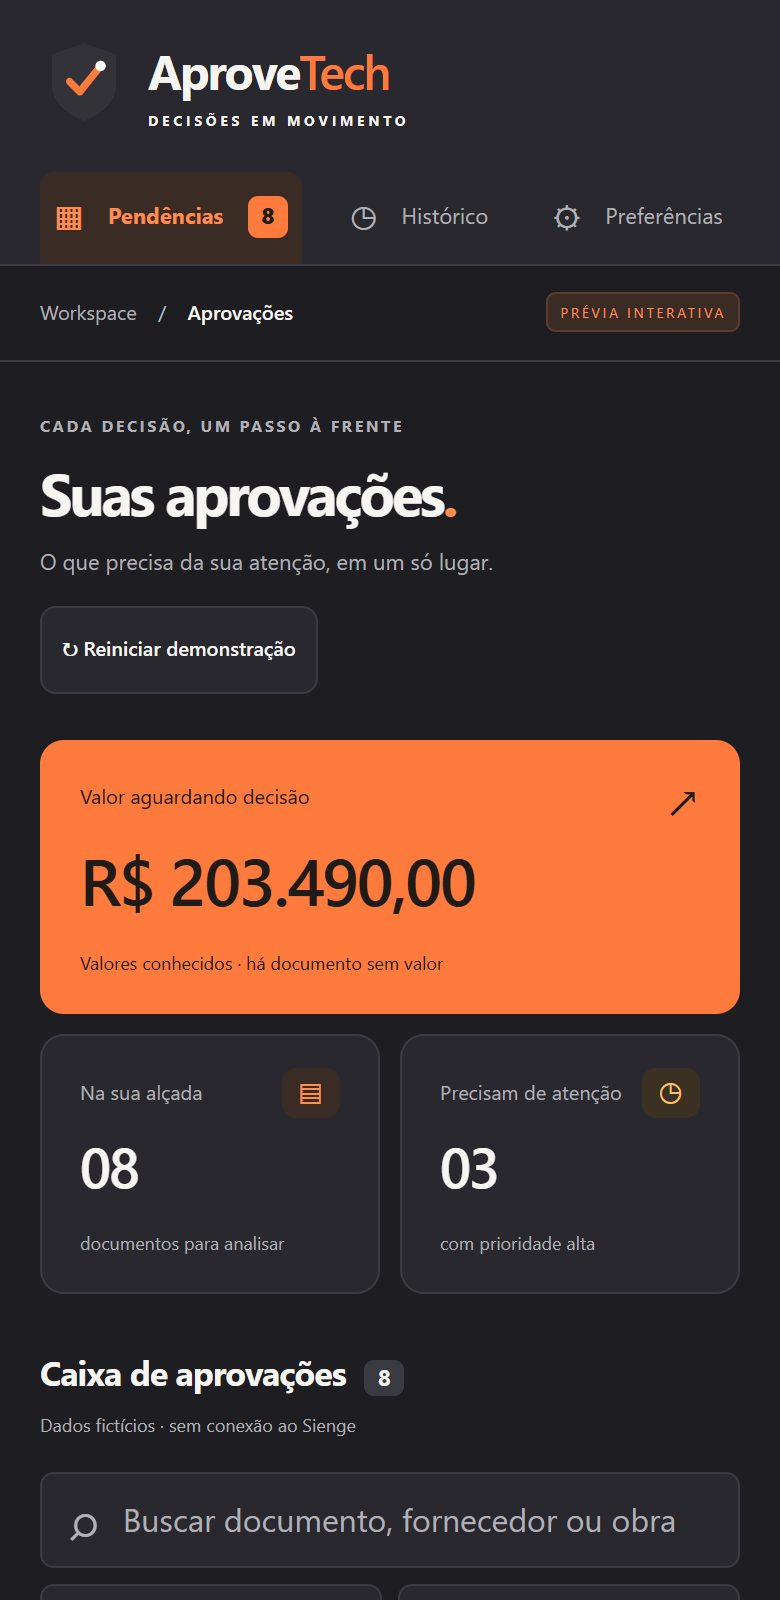
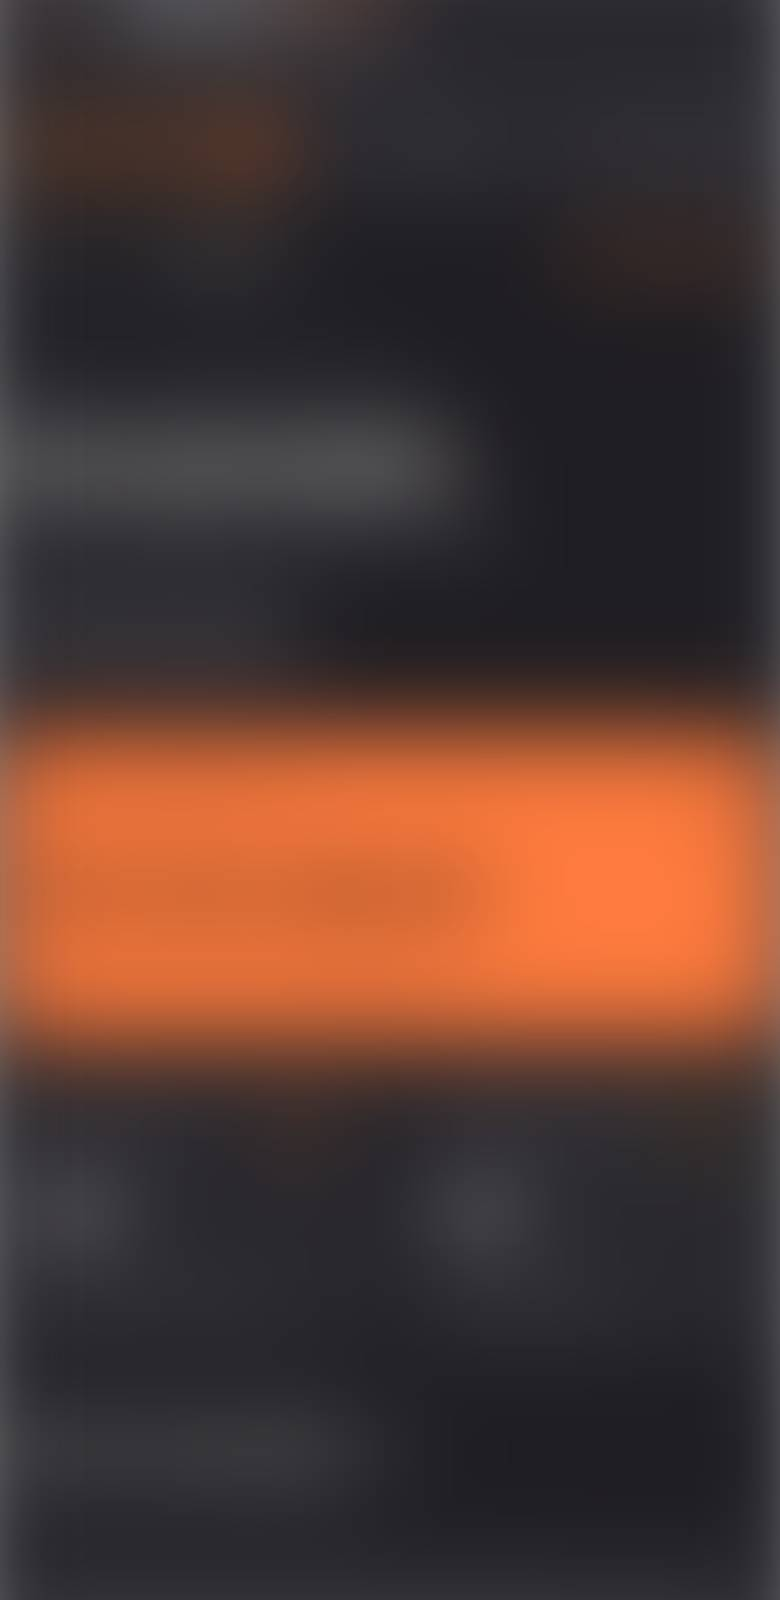
Segredo

diff --git a/src/styles.css b/src/styles.css
@@ -319,10 +319,11 @@ h2.split{font-family:var(--display);font-weight:700;font-size:clamp(40px,5.4vw,7
 @media (hover:none){.bench-card.is-active .vault-peek{opacity:1;transform:none}}
 .vault-peek small{font-size:11px;font-weight:800;letter-spacing:.08em;text-transform:uppercase;color:#8EA3B8}
 .peek-frame{display:block;overflow:hidden;border:1px solid rgba(127,177,236,.3);background:#0A1A2C;box-shadow:0 24px 50px -24px rgba(0,0,0,.8)}
-.peek-frame img{display:block;width:100%;height:100%;object-fit:cover;object-position:top}
-.peek-phone .peek-frame{height:262px;aspect-ratio:390/800;border-radius:22px;border:3px solid #24425F}
-.peek-desktop .peek-frame{width:100%;aspect-ratio:1280/800;border-radius:10px}
-.peek-sketch{width:100%;max-width:300px}
+.peek-frame{opacity:.7;box-shadow:none}
+.peek-frame img{display:block;width:100%;height:100%;object-fit:cover;object-position:top;filter:saturate(.7) brightness(.85)}
+.peek-phone .peek-frame{height:200px;aspect-ratio:390/800;border-radius:20px;border:2px solid #24425F}
+.peek-desktop .peek-frame{width:84%;aspect-ratio:1280/800;border-radius:10px}
+.peek-art{width:100%;max-width:260px;opacity:.7;filter:blur(2.5px)}
 .vault-fill{display:block;height:100%;border-radius:inherit;background:linear-gradient(90deg,var(--cobalto),var(--ceu));transform-origin:0 50%}
 .pipeline-foot{display:flex;flex-wrap:wrap;align-items:center;gap:14px 22px;margin-top:28px}
 .pipeline-foot p{font-size:14.5px;color:var(--nevoa)}

diff --git a/src/components/Pipeline.tsx b/src/components/Pipeline.tsx
@@ -50,7 +50,7 @@ export default function Pipeline() {
             O que vem por aí
           </h2>
           <p className="pipeline-text">
-            A equipe está em desenvolvimento de três projetos para construtora. Um já tem nome. Os outros dois seguem no cadeado, integrados ao <strong>Sienge</strong>.
+            A equipe está em desenvolvimento de três projetos para construtora. Todos seguem no cadeado, integrados ao <strong>Sienge</strong>.
           </p>
         </Reveal>
 
@@ -144,7 +144,7 @@ function Peek({ peek }: { peek: Teaser['peek'] }) {
           <img src={peek.src} alt="" loading="lazy" decoding="async" />
         </span>
       )}
-      <small>{peek.kind === 'sketch' ? 'Esboço' : 'Prévia · dados fictícios'}</small>
+      <small>{peek.kind === 'sketch' ? 'Esboço' : 'Um vislumbre'}</small>
     </span>
   );
 }
@@ -155,7 +155,7 @@ function Sketch() {
   const line = { stroke: '#7FB1EC', strokeWidth: 1.4, strokeDasharray: '4 4', fill: 'none' };
   const label = { fill: '#D5E4F2', fontSize: 11, fontWeight: 700, textAnchor: 'middle' as const };
   return (
-    <svg viewBox="0 0 280 170" className="peek-sketch">
+    <svg viewBox="0 0 280 170" className="peek-art">
       {[22, 68, 114].map((y) => (
         <g key={y}>
           <rect x="8" y={y} width="62" height="30" rx="8" {...box} />

diff --git a/src/data.ts b/src/data.ts
@@ -224,11 +224,11 @@ export interface Teaser {
   peek: { kind: 'phone' | 'desktop'; src: string; alt: string } | { kind: 'sketch' };
 }
 
-/** What the team is producing. Only Aprovetech is named. */
+/** What the team is producing. None is named yet. */
 export const teasers: Teaser[] = [
   {
     code: 'aprovacoes',
-    name: 'Aprovetech',
+    name: null,
     progress: 85,
     hint: 'O que ele faz de fato, a equipe ainda segura.',
     clues: ['No celular', 'No Sienge', 'Sem o computador'],
